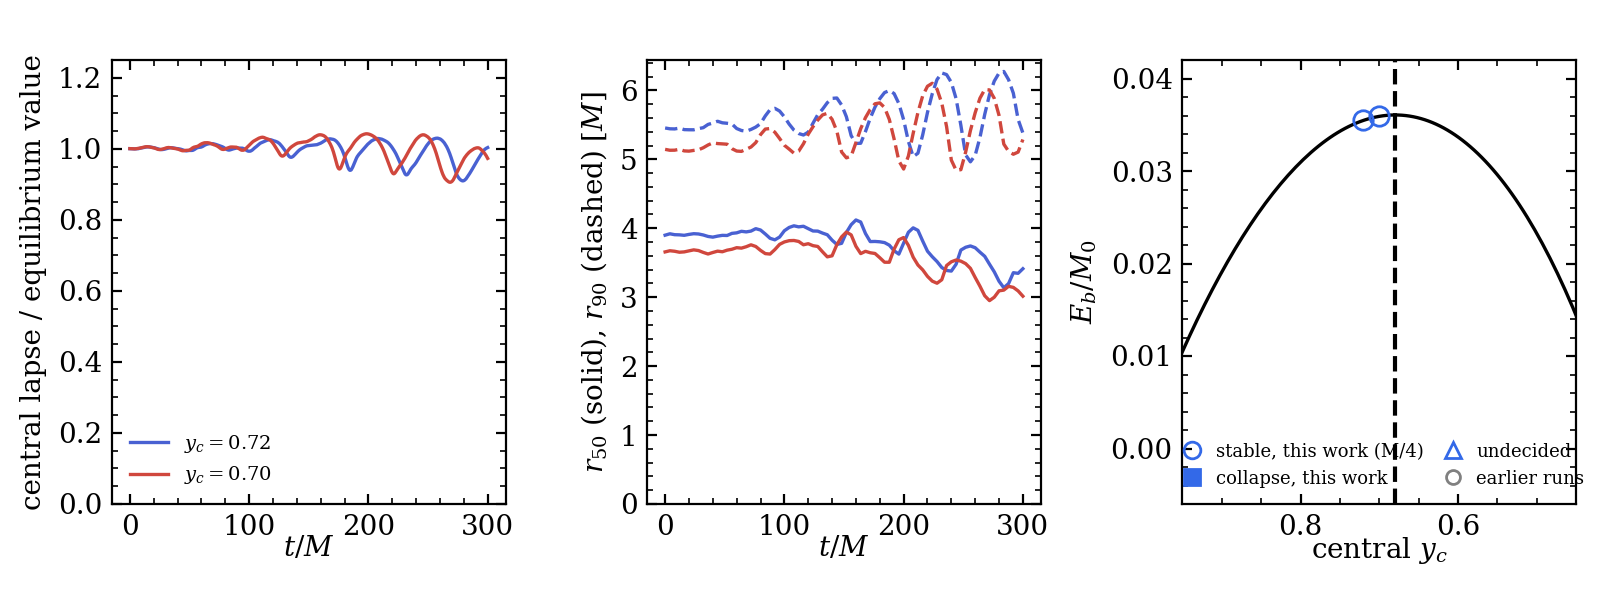
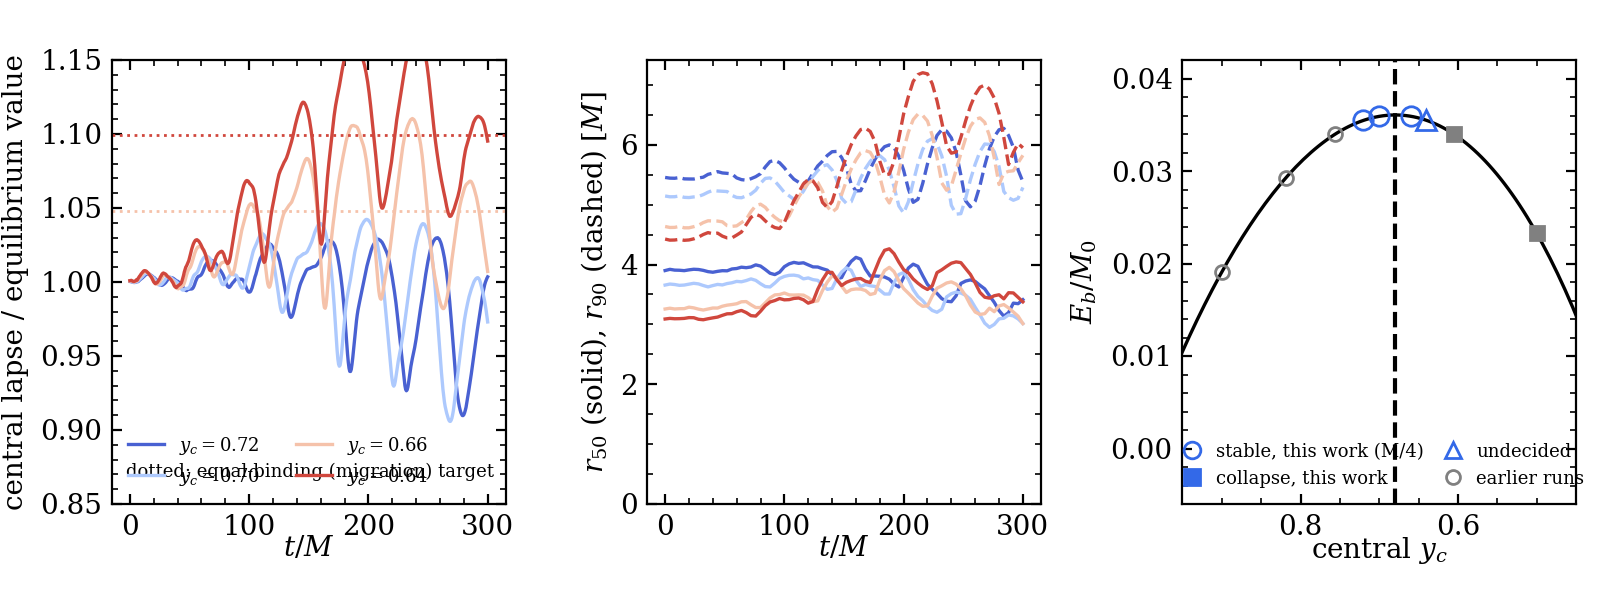
verify wave 2: bisection round 1 - no collapse at M/4; by the fixed rule no bracket; y_c 0.66 and 0.64 migrate to their equal-binding members (0.7005 vs 0.7034, 0.7221 vs 0.7205)
Runs: core-20261115-152842-5728b1d, -152843-5728b1d, analysis -160501-ee15e0f

Claude-Session: https://claude.ai/code/session_01VD79cUYemmpt27M8dtYPfW

diff --git a/tracks/core/verify/ladder2/cluster_fate.py b/tracks/core/verify/ladder2/cluster_fate.py
@@ -196,9 +196,9 @@ def figure(res):
         ax[1].plot(rr["t"], rr["r50"], color=c, lw=1.2)
         ax[1].plot(rr["t"], rr["r90"], color=c, lw=1.2, ls="--")
     lo = min(0.85, min(np.nanmin(np.array(r["alpha_c"]) / r["alpha_c_eq"]) for r in runs) - 0.02)
-    ax[0].set_ylim(max(lo, 0.0), 1.15)
-    ax[0].text(0.97, 0.06, "dotted: equal-binding (migration) target", transform=ax[0].transAxes,
-               ha="right", fontsize=6.5)
+    ax[0].set_ylim(max(lo, 0.0), 1.22)
+    ax[0].text(0.03, 0.97, "dotted: equal-binding (migration) target", transform=ax[0].transAxes,
+               ha="left", va="top", fontsize=6.5)
     ax[0].set_xlabel(r"$t/M$", labelpad=-2)
     ax[0].set_ylabel(r"central lapse / equilibrium value")
     ax[0].legend(fontsize=6.5, loc="lower left", ncol=2)

diff --git a/tracks/core/verify/JOURNAL.md b/tracks/core/verify/JOURNAL.md
@@ -393,3 +393,40 @@ mesh at M/4 vs M/8-M/16 [to be stated as such, not as a property of the cluster]
 collapses, the 0.64 and 0.66 runs migrate because they are close to y_c*.
 Card time after this: about 1.2 (round 1) + 0.25 (prolate) + 0.6 (round 2) + 0.24
 (control) = 2.3 of the 2.5 allowed; nothing further will be submitted.
+
+## 16:07Z Outcome of bisection round 1 (registered analysis core-20261115-160501-ee15e0f)
+
+Card jobs 4432 (y_c 0.70, 0.66; run core-20261115-152842-5728b1d, 0.593 card-hours) and
+4433 (0.72, 0.64; core-20261115-152843-5728b1d, 0.596). All four reach 300 M with exit
+status 0, every particle kept, no apparent horizon, central lapse never below 0.638.
+Figure `figs/cluster_threshold.png` (looked at).
+
+By the rule fixed at 15:30Z (mean central lapse over 200-300 M against alpha_c, 0.03):
+| y_c | alpha_c (equilibrium) | mean 200-300 M | verdict by the rule | equal-binding target alpha_c |
+|---|---|---|---|---|
+| 0.72 | 0.7207 | 0.7079 | STABLE | -- |
+| 0.70 | 0.7039 | 0.6920 | STABLE | -- |
+| 0.66 | 0.6713 | 0.7005 | STABLE (offset +0.029, at the edge of 0.03) | 0.7034 |
+| 0.64 | 0.6554 | 0.7221 | UNDECIDED (offset +0.067) | 0.7205 |
+No model collapses on this mesh: the collapse part of the prediction is REFUTED (0.64
+was to collapse between 150 and 300 M). By the rule the bisection gives no bracket (no
+COLLAPSE; the lowest STABLE is 0.66, below y_c* = 0.6796), i.e. the rule as written does
+not locate the threshold with these runs.
+Reading [JUDGEMENT, after the runs]: the two models below y_c* leave their equilibrium
+outward and settle, in the 100 M mean, at the central lapse of the stable member with the
+same E_b/M_0 (0.7005 vs 0.7034; 0.7221 vs 0.7205), which is the migration the paper
+describes for unstable members (its Sec. "Cluster Migration"; our earlier unperturbed
+y_c = 0.5 migration run reached 0.814 against 0.833530 in the paper). The two models
+above y_c* stay at their equilibrium in the mean (offsets -0.012, -0.013) and do not move
+towards any other member. On that reading the threshold lies between 0.66 and 0.70,
+bracketing y_c* = 0.6796. What the rule missed: migration is a departure without
+collapse; a criterion "mean central lapse moves to the equal-binding member" would have
+to be fixed before round 2's outcome is read, and is written here now: round 2 (0.69,
+0.67) and the control are judged by both the 15:30Z rule and this migration criterion
+(|mean 200-300 M - alpha_c(target)| < |mean 200-300 M - alpha_c(own)|).
+Also seen, and not explained: in all four runs the central lapse oscillates with a
+period near 50 M and a swing that grows from +-0.004 in the first 50 M to +-0.05 to
++-0.08 after 200 M (0.72: 0.656-0.742), larger than in the earlier M/2 static runs of
+0.819 (half swing up to 0.022) - the growing oscillation of OPEN.md item 3, here at
+M/4 and with the stable runs also drifting down by about 0.01 in the last 100 M.
+Card time so far 1.19 card-hours (round 1).
